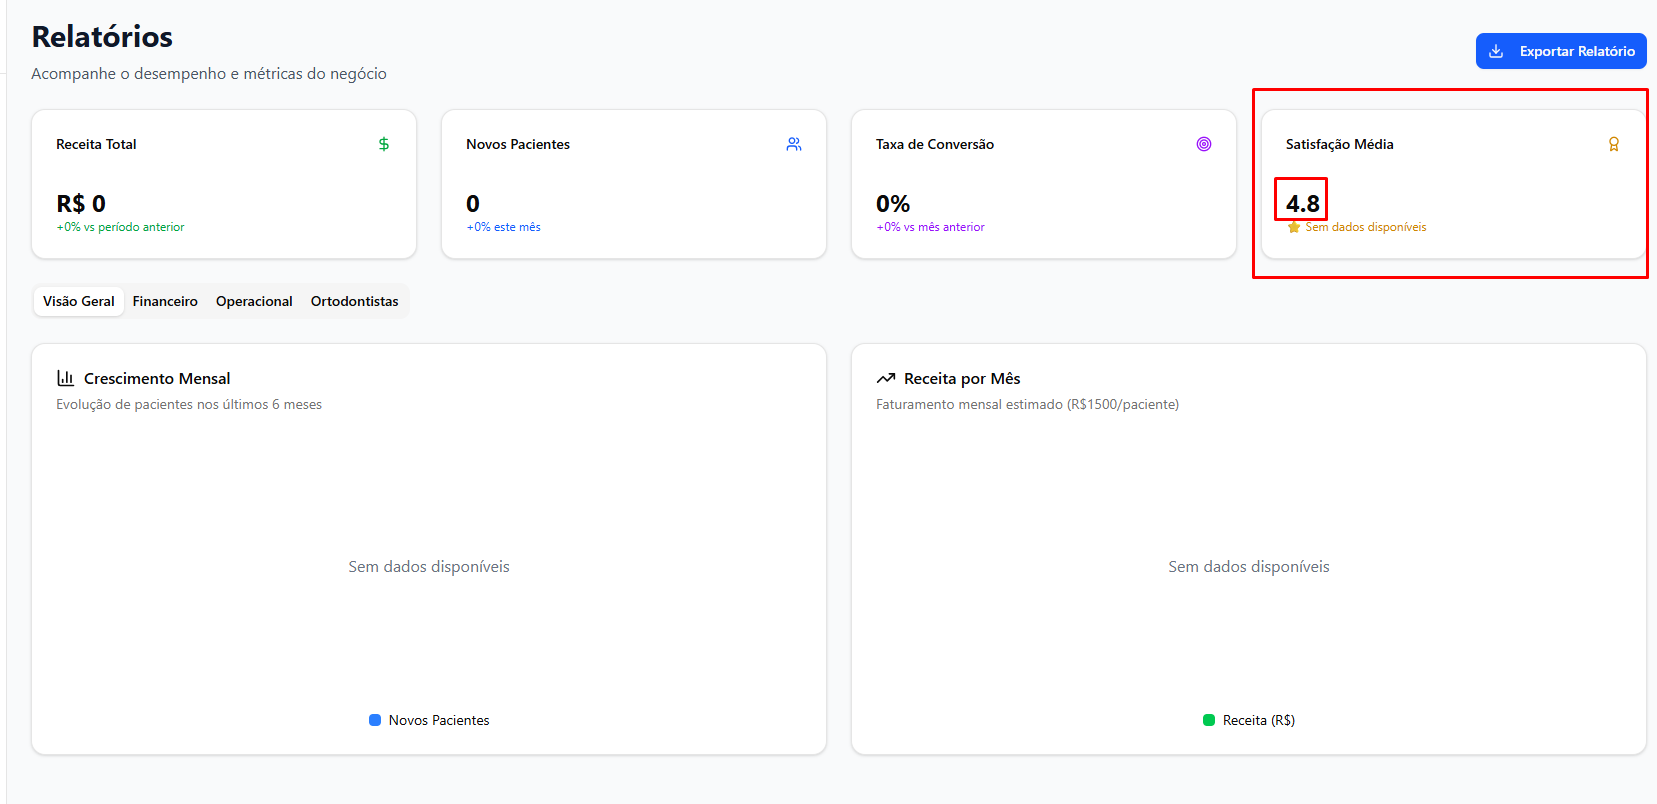
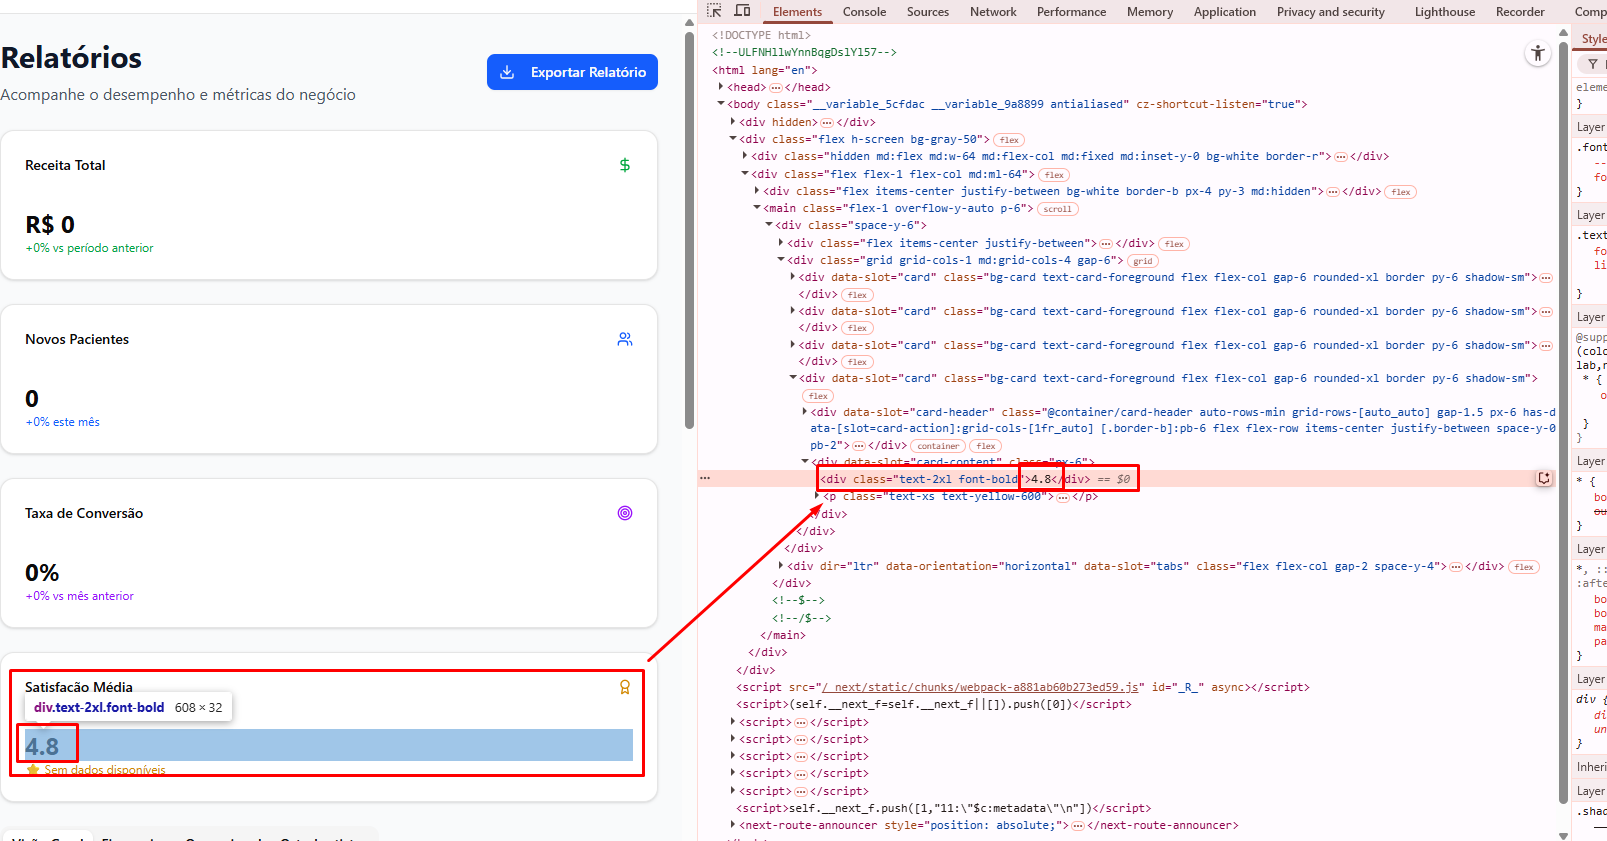
fix: Corrige fallback local da satisfação média no frontend
Remove o valor hardcoded 4.8 do fallback local do frontend.
Agora tanto a API quanto o fallback local mostram 0 quando não há dados.

Era o último local onde o 4.8 aparecia! 🎯

🤖 Generated with [Claude Code](https://claude.ai/code)

diff --git a/admin/src/app/admin/relatorios/page.tsx b/admin/src/app/admin/relatorios/page.tsx
@@ -30,7 +30,7 @@ export default function RelatoriosPage() {
     patientsGrowth: '+0%',
     conversionRate: 0,
     conversionGrowth: '+0%',
-    averageRating: 4.8,
+    averageRating: 0,
     ratingLabel: 'Carregando...'
   }
   return (
